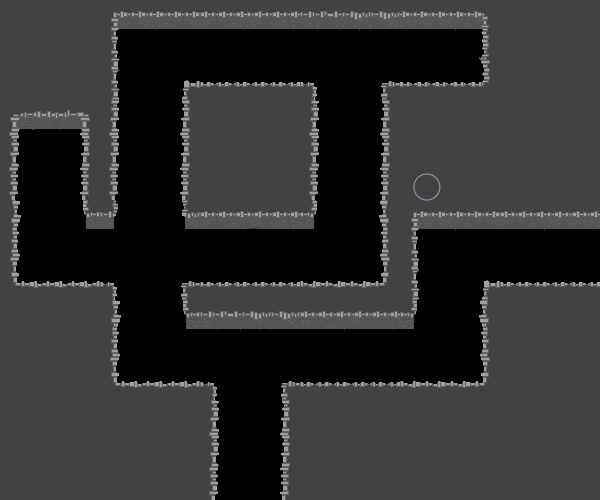
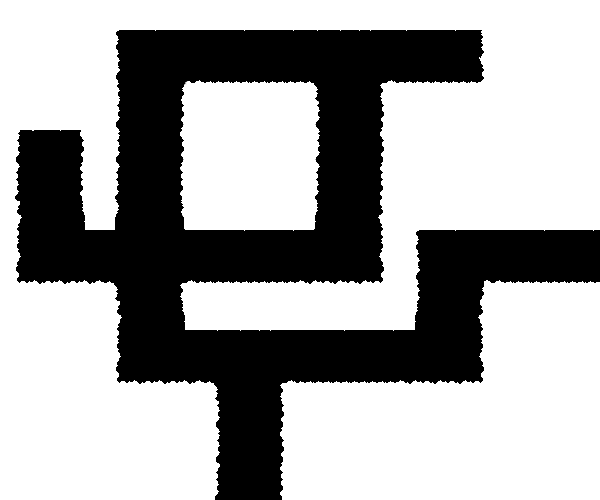
Corrigindo mecânica de colisao com tiles

diff --git a/treasures_and_burial.py b/treasures_and_burial.py
@@ -2,9 +2,15 @@ import pygame
 import random
 import os
 from math import *
+
 WIDTH = 600
 HEIGHT = 500
 FPS = 30
+
+CHAR_SIZE = 96
+ENEMY_SIZE = 40
+CHEST_SIZE = 40
+
 
 WHITE = (255,255,255)
 GREEN = (0,255,0)
@@ -24,7 +30,7 @@ clock = pygame.time.Clock()
 def load_assets():
     assets = {}
     assets['flecha_img'] = pygame.image.load('Pixel_TreasuresandBurial/props/objects/projectiles/arrow-16x16.png').convert_alpha()
-    assets['character_img'] = pygame.image.load('Pixel_TreasuresandBurial/props/characters/front/char0.0-96x96.png').convert()
+    assets['character_img'] = pygame.image.load('Pixel_TreasuresandBurial/props/characters/front/char0.0-96x96.png').convert_alpha()
     assets['init_screen'] = pygame.image.load('Pixel_TreasuresandBurial/img/introscreen-500x400.png').convert()
     assets['init_screen'] = pygame.transform.scale(assets['init_screen'], (WIDTH,HEIGHT))
     over_anim = []
@@ -41,25 +47,25 @@ def load_assets():
     for i in range(10):
         frame_right = 'Pixel_TreasuresandBurial/props/characters/right/char1.{0}-96x96.png'.format(i)
         img = pygame.image.load(frame_right).convert_alpha()
-        img = pygame.transform.scale(img,(96,96))
+        img = pygame.transform.scale(img,(CHAR_SIZE,CHAR_SIZE))
         anim_right.append(img)
     assets['character_right'] = anim_right
     for i in range(10):
         frame_left = 'Pixel_TreasuresandBurial/props/characters/left/char3.{0}-96x96.png'.format(i)
         img = pygame.image.load(frame_left).convert_alpha()
-        img = pygame.transform.scale(img,(96,96))
+        img = pygame.transform.scale(img,(CHAR_SIZE,CHAR_SIZE))
         anim_left.append(img)
     assets['character_left'] = anim_left
     for i in range(8):
         frame_front = 'Pixel_TreasuresandBurial/props/characters/front/char0.{0}-96x96.png'.format(i)
         img = pygame.image.load(frame_front).convert_alpha()
-        img = pygame.transform.scale(img,(96,96))
+        img = pygame.transform.scale(img,(CHAR_SIZE,CHAR_SIZE))
         anim_front.append(img)
     assets['character_front'] = anim_front
     for i in range(8):
         frame_back = 'Pixel_TreasuresandBurial/props/characters/back/char2.{0}-96x96.png'.format(i)
         img = pygame.image.load(frame_back).convert_alpha()
-        img = pygame.transform.scale(img,(96,96))
+        img = pygame.transform.scale(img,(CHAR_SIZE,CHAR_SIZE))
         anim_front.append(img)
     assets['character_back'] = anim_back
     anim_torch = []
@@ -74,21 +80,41 @@ def load_assets():
         elements = ['fire','water','air','earth']
         filename = 'Pixel_TreasuresandBurial/props/enemies/{0}_elemental.png'.format(elements[i])
         img = pygame.image.load(filename).convert_alpha()
-        img = pygame.transform.scale(img,(32,32))
+        img = pygame.transform.scale(img,(ENEMY_SIZE,ENEMY_SIZE))
         elementals.append(img)
     assets['elementals'] = elementals
-    assets['mapas'] = pygame.image.load('Pixel_TreasuresandBurial/maps/Mapa3.1.png').convert()
-    assets['mask'] = pygame.image.load('Pixel_TreasuresandBurial/mask/Mask3.1.png').convert()
+    mapas = dict()
+    for i in range(1,8):
+        filename = 'Pixel_TreasuresandBurial/maps/Mapa{0}.1.png'.format(i)
+        img = pygame.image.load(filename).convert()
+        key = 'mapa{0}.1'.format(i)
+        mapas[key] = img
+    mapas['mapa3.2'] = pygame.image.load('Pixel_TreasuresandBurial/maps/Mapa3.2.png').convert()
+    mapas['mapa4.2'] = pygame.image.load('Pixel_TreasuresandBurial/maps/Mapa4.2.png').convert()
+    mapas['mapa4.3'] = pygame.image.load('Pixel_TreasuresandBurial/maps/Mapa4.3.png').convert()
+    mapas['mapa6.2'] = pygame.image.load('Pixel_TreasuresandBurial/maps/Mapa6.2.png').convert()
+    assets['mapas'] = mapas
+    masks = dict()
+    for i in range(2,8):
+        filename = 'Pixel_TreasuresandBurial/mask/Mask{0}.1.png'.format(i)
+        img = pygame.image.load(filename).convert()
+        img.set_colorkey(BLACK)
+        key = 'mapa{0}.1'.format(i)
+        masks[key] = img
+    masks['mapa3.2'] = pygame.image.load('Pixel_TreasuresandBurial/mask/Mask3.2.png').convert()
+    masks['mapa4.2'] = pygame.image.load('Pixel_TreasuresandBurial/mask/Mask4.2.png').convert()
+    masks['mapa6.2'] = pygame.image.load('Pixel_TreasuresandBurial/mask/Mask6.2.png').convert()
+    assets['masks'] = masks
     chests = dict()
     closed_chests = []
     for i in range(1,3):
         img = pygame.image.load('Pixel_TreasuresandBurial/props/objects/chests/chest{0}closed-32x32.png'.format(i)).convert_alpha()
-        img = pygame.transform.scale(img,(40,40))
+        img = pygame.transform.scale(img,(CHEST_SIZE,CHEST_SIZE))
         closed_chests.append(img)
     open_chests = []
     for i in range(1,3):
         img = pygame.image.load('Pixel_TreasuresandBurial/props/objects/chests/chest{0}openEMPTY-32x32.png'.format(i)).convert_alpha()
-        img = pygame.transform.scale(img,(40,40))
+        img = pygame.transform.scale(img,(CHEST_SIZE,CHEST_SIZE))
         closed_chests.append(img)
     chests['closed'] = closed_chests
     chests['open'] = open_chests
@@ -97,11 +123,11 @@ def load_assets():
     chest2 = []
     for i in range(1,3):
         img = pygame.image.load('Pixel_TreasuresandBurial/props/objects/chests/chest1openFULL{0}-32x32.png'.format(i)).convert_alpha()
-        img = pygame.transform.scale(img,(40,40))
+        img = pygame.transform.scale(img,(CHEST_SIZE,CHEST_SIZE))
         chest1.append(img)
     for i in range(1,3):
         img = pygame.image.load('Pixel_TreasuresandBurial/props/objects/chests/chest2openFULL{0}-32x32.png'.format(i)).convert_alpha()
-        img = pygame.transform.scale(img,(40,40))
+        img = pygame.transform.scale(img,(CHEST_SIZE,CHEST_SIZE))
         chest2.append(img)
     content['chest1'] = chest1
     content['chest2'] = chest2
@@ -114,10 +140,9 @@ class Char(pygame.sprite.Sprite):
     def __init__(self, groups, assets):
         pygame.sprite.Sprite.__init__(self)
 
-
         self.image = assets['character_img']
-        self.mask = pygame.mask.from_surface(self.image)
         self.rect = self.image.get_rect()
+        self.mask = pygame.mask.from_surface(self.image)
         self.rect.centerx = WIDTH/2
         self.rect.centery = HEIGHT/2
         self.delta = {"esquerda":0,"direita":0,"acima":0,"abaixo":0}
@@ -129,10 +154,8 @@ class Char(pygame.sprite.Sprite):
         self.shoot_ticks = 500
 
     def update(self):
-
         self.rect.x += (self.delta["direita"]-self.delta["esquerda"])*self.velo
         self.rect.y += (self.delta["abaixo"]-self.delta["acima"])*self.velo
-
 
         if self.rect.right > WIDTH:
             self.rect.right = WIDTH
@@ -152,16 +175,20 @@ class Char(pygame.sprite.Sprite):
             self.groups['all_sprites'].add(nova_flecha)
             self.groups['all_flechas'].add(nova_flecha)
 
+    def desfazer(self):
+        self.rect.x += (self.delta["esquerda"]-self.delta["direita"])*self.velo
+        self.rect.y += (self.delta["acima"]-self.delta["abaixo"])*self.velo
+
 class Flecha(pygame.sprite.Sprite):
     def __init__(self,assets,bottom,centerx):
         pygame.sprite.Sprite.__init__(self)
 
         self.image = assets['flecha_img']
-        self.mask=pygame.mask.from_surface(self.image)
+        self.mask = pygame.mask.from_surface(self.image)
         self.rect=self.image.get_rect()
         self.rect.centerx = centerx
         self.rect.bottom = bottom
-        self.speed = 10
+        self.speed = 15
         mouse = list(pygame.mouse.get_pos()) 
         distx = mouse[0] - self.rect.centerx
         disty = mouse[1] - self.rect.centery
@@ -182,25 +209,31 @@ class Flecha(pygame.sprite.Sprite):
 
 class Enemy(pygame.sprite.Sprite):
     def __init__(self,groups,assets,player):
-        n = random.randint(0,4)
+        
+        pygame.sprite.Sprite.__init__(self)
+        n = random.randint(0,3)
         self.assets = assets
         self.image = self.assets['elementals'][n]
+        self.mask = pygame.mask.from_surface(self.image)
         self.groups = groups
         self.rect = self.image.get_rect()
         self.rect.centerx = 550
         self.rect.centery = HEIGHT/2
-        self.speed = 0
+        self.speed = 5
         distax = player.rect.centerx - self.rect.centerx
         distay = player.rect.centery - self.rect.centery
         angle = atan2(distay,distax)
-        self.angle = degrees(angle)
-        self.speedx = cos(angle)*self.speed
-        self.speedy = sin(angle)*self.speed
+        self.angle = degrees(-angle)
+        self.speedx = -self.speed
+        self.speedy = self.speed
         self.groups = groups
         self.assets = assets
 
 
     def update(self):
+        self.rect.y += self.speedy
+        self.rect.x += self.speedx
+
         if self.rect.right > WIDTH:
             self.rect.right = WIDTH
             self.speed = 0
@@ -215,9 +248,9 @@ class Enemy(pygame.sprite.Sprite):
             self.speed = 0
 
 class MapMask(pygame.sprite.Sprite):
-    def __init__(self,assets): 
+    def __init__(self,img): 
         pygame.sprite.Sprite.__init__(self)
-        self.image = pygame.image.load('Pixel_TreasuresandBurial/mask/Mask3.1.png').convert()
+        self.image = img
         self.mask = pygame.mask.from_surface(self.image)
         self.rect = self.image.get_rect()
     
@@ -234,14 +267,13 @@ def janela(window):
     assets = load_assets()
     player = Char(groups, assets)
     enemy = Enemy(groups, assets, player)
-    water_mask = MapMask(assets['mask'])
+    water_mask = MapMask(assets['masks']['mapa3.1'])
     all_sprites.add(player)
     all_enemies.add(enemy)
     water_mask_group.add(water_mask)
-
     #Loop principal
     gamerun = True
-
+    
     while gamerun:
         clock.tick(FPS)
         for event in pygame.event.get():
@@ -275,32 +307,31 @@ def janela(window):
         if player.rect.right >= (WIDTH)-100:
             if (HEIGHT/2)-50<player.rect.bottom<(HEIGHT/2+50):
 
-                MAPA = assets['mapas']
+                MAPA = assets['mapas']['mapa3.1']
                 player.kill()
                 player = Char(groups,assets)
                 player.rect.centerx = 0
                 all_sprites.add(player)
 
         else:
-            MAPA = assets['mapas']
+            MAPA = assets['mapas']['mapa3.1']
             x = 0   
 
-         in_water = pygame.sprite.spritecollide(player,water_mask_group,False,pygame.sprite.collide_mask)
+            
 
-        if in_water:
-            player.x_speed = 0
-            player.y_speed = 0
-      
-        else:
-            MAPA = assets['mapas']
-            x = 0    
+        hits = pygame.sprite.groupcollide(all_enemies, all_flechas, True, True, pygame.sprite.collide_mask)
+
         all_sprites.update()
+        in_water = pygame.sprite.spritecollide(player,water_mask_group,False,pygame.sprite.collide_mask)
+        
+        if in_water:
+            player.desfazer()
+            print(in_water)
     
         window.blit(MAPA,(0,0)) #Depois, podemos usar o comando pygame.display.flip()
         all_sprites.draw(window)
         all_flechas.draw(window)
         all_enemies.draw(window)
-        pygame.draw.circle(window, BLUE,(550,250),10)
         pygame.display.update()
         
 janela(window)
